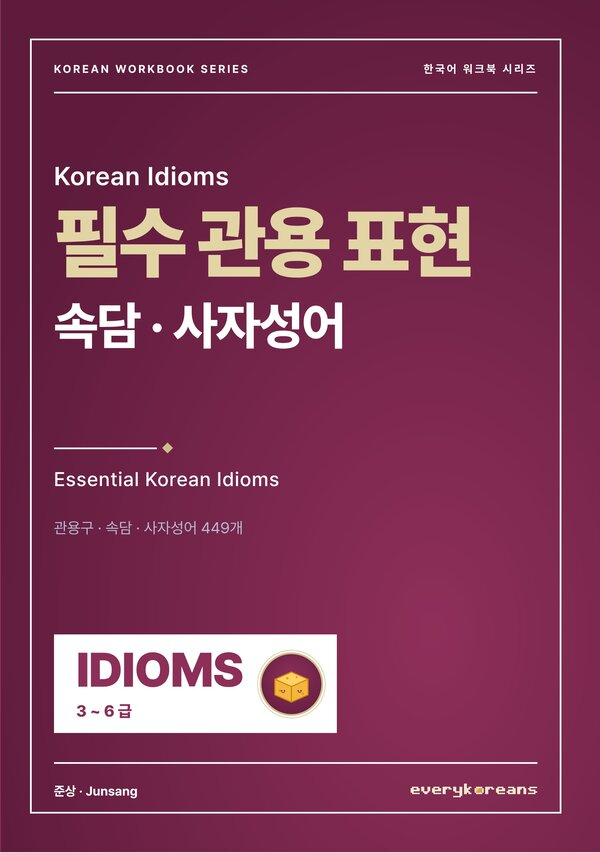
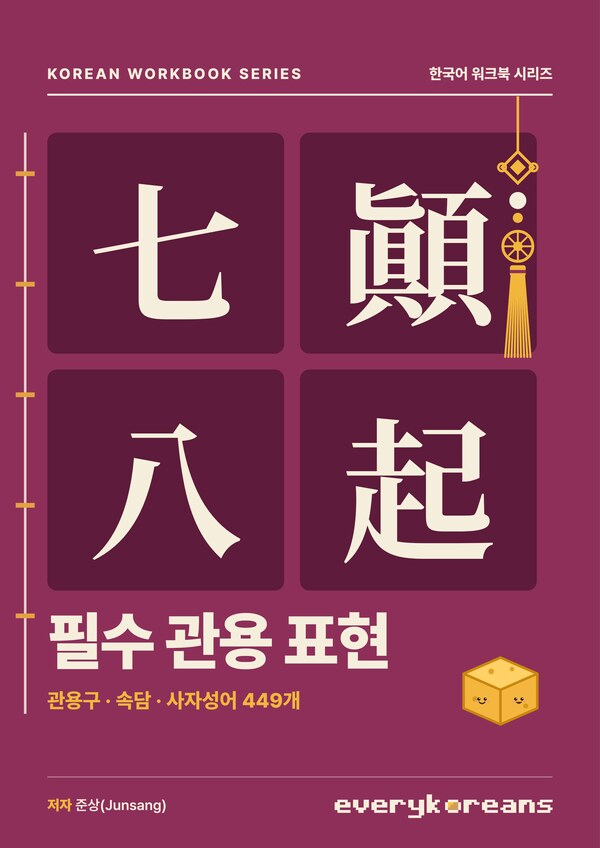
필수 관용 표현 새 표지 반영 (#679)
* 잘자 정리: 쓰레드 8 · 9번 올림 기록

Claude-Session: https://claude.ai/code/session_01ENZGJR1M6rF2jzSASJyHWb

* 소개 쪽: 깔끔한 일곱 칸으로 자세히 다시 쓰기

Claude-Session: https://claude.ai/code/session_01ENZGJR1M6rF2jzSASJyHWb

* 소개 쪽: 큰 편집 레이아웃(숫자 띠 · 책 표지 · 시험장 그림)

Claude-Session: https://claude.ai/code/session_01ENZGJR1M6rF2jzSASJyHWb

* 푸터 언어 안내를 한 줄로 · 시험장 시간 칸이 시험에 맞게 바뀌게

Claude-Session: https://claude.ai/code/session_01ENZGJR1M6rF2jzSASJyHWb

* 모의고사 넘길 때 화면 고정 · 사이드바 시계 아이콘 · 시험장 게시판 홍보 · 관절 있는 사람

Claude-Session: https://claude.ai/code/session_01ENZGJR1M6rF2jzSASJyHWb

* 3D 시험장: 1인칭 내 손(연필로 쓰는 움직임)

Claude-Session: https://claude.ai/code/session_01ENZGJR1M6rF2jzSASJyHWb

* 소개 쪽: 이름이 시작된 곳(햄스터 치즈 · 감자)

Claude-Session: https://claude.ai/code/session_01ENZGJR1M6rF2jzSASJyHWb

* 햄스터 OX 퀴즈 1단계(/ox/) · 치즈 사진 교체 · 게시판 주소 글자 뺌

Claude-Session: https://claude.ai/code/session_01ENZGJR1M6rF2jzSASJyHWb

* OX 퀴즈: 일곱 갈래 626문항(품사 · 문법 · 표현 · 한자 · 숫자 · 높임말)

Claude-Session: https://claude.ai/code/session_01ENZGJR1M6rF2jzSASJyHWb

* 3D 시험장 조이스틱 · OX 퀴즈 함께 하기(같은 시계 · 실시간 접속자)

Claude-Session: https://claude.ai/code/session_01ENZGJR1M6rF2jzSASJyHWb

* 읽기 보충 112문항 검수: 되돌림 · 안티 2차 고치기 지시

Claude-Session: https://claude.ai/code/session_01ENZGJR1M6rF2jzSASJyHWb

* 사이드바에 햄스터 OX 퀴즈 링크

Claude-Session: https://claude.ai/code/session_01ENZGJR1M6rF2jzSASJyHWb

* OX 퀴즈: 조이스틱 · 방향키로 걸어서 O/X 쪽에 서기

Claude-Session: https://claude.ai/code/session_01ENZGJR1M6rF2jzSASJyHWb
[…]

diff --git a/tools/cover-topik/korean-idioms.html b/tools/cover-topik/korean-idioms.html
@@ -1,0 +1,18 @@
+<!doctype html><meta charset=utf-8><link rel=stylesheet href=/vendor/pretendard.css><style>@font-face{font-family:'NotoSerifKRIdioms';src:url(/tools/cover-topik/fonts/NotoSerifKR-Bold-idioms.ttf);font-weight:700}*{box-sizing:border-box;margin:0}body{padding:24px;background:#ddd}.cv{width:380px;height:537px;position:relative;overflow:hidden}</style><body><div class="cv" style="background:#8E2F5A"><svg width="380" height="537" style="position:absolute;left:0;top:0"><text x="30" y="50" font-size="9.5" font-weight="800" fill="#F6EEDC" font-family="Pretendard Variable, Noto Sans CJK KR, sans-serif" letter-spacing="1.4">KOREAN WORKBOOK SERIES</text><text x="350" y="50" font-size="9.5" font-weight="800" fill="#F6EEDC" font-family="Pretendard Variable, Noto Sans CJK KR, sans-serif" text-anchor="end">한국어 워크북 시리즈</text><path d="M30 60H350" stroke="#F6EEDC" stroke-width="1.2"/>
+<g transform="translate(30 84)"><rect width="150" height="140" rx="6" fill="#5E1B3B"/><text x="75" y="114" font-size="98" font-weight="700" fill="#F6EEDC" font-family="NotoSerifKRIdioms" text-anchor="middle">七</text></g><g transform="translate(190 84)"><rect width="150" height="140" rx="6" fill="#5E1B3B"/><text x="75" y="114" font-size="98" font-weight="700" fill="#F6EEDC" font-family="NotoSerifKRIdioms" text-anchor="middle">顚</text></g><g transform="translate(30 234)"><rect width="150" height="140" rx="6" fill="#5E1B3B"/><text x="75" y="114" font-size="98" font-weight="700" fill="#F6EEDC" font-family="NotoSerifKRIdioms" text-anchor="middle">八</text></g><g transform="translate(190 234)"><rect width="150" height="140" rx="6" fill="#5E1B3B"/><text x="75" y="114" font-size="98" font-weight="700" fill="#F6EEDC" font-family="NotoSerifKRIdioms" text-anchor="middle">起</text></g>
+<g>
+<path d="M328 61V96" stroke="#F2B63D" stroke-width="1.6"/>
+<g transform="translate(328 106)"><path d="M0 -10L10 0L0 10L-10 0z" fill="none" stroke="#F2B63D" stroke-width="1.8"/><path d="M0 -5L5 0L0 5L-5 0z" fill="#F2B63D"/><circle cx="-10" cy="0" r="2.4" fill="none" stroke="#F2B63D" stroke-width="1.5"/><circle cx="10" cy="0" r="2.4" fill="none" stroke="#F2B63D" stroke-width="1.5"/></g>
+<circle cx="328" cy="127" r="5.4" fill="#F6EEDC"/>
+<circle cx="328" cy="138" r="3.2" fill="#F2B63D"/>
+<g transform="translate(328 156)"><circle r="9.5" fill="none" stroke="#F2B63D" stroke-width="1.8"/><path d="M-6 -6L6 6M6 -6L-6 6M0 -9V9M-9 0H9" stroke="#F2B63D" stroke-width="1.2"/><circle r="3" fill="#F2B63D"/></g>
+<rect x="323" y="168" width="10" height="7" rx="1.5" fill="#F2B63D"/><rect x="323" y="171" width="10" height="2" fill="#8E2F5A"/>
+<g stroke="#F2B63D" stroke-width="1.3" stroke-linecap="round"><path d="M324.0 175L320.0 226"/><path d="M325.0 175L322.0 226"/><path d="M326.0 175L324.0 226"/><path d="M327.0 175L326.0 226"/><path d="M328.0 175L328.0 226"/><path d="M329.0 175L330.0 226"/><path d="M330.0 175L332.0 226"/><path d="M331.0 175L334.0 226"/><path d="M332.0 175L336.0 226"/></g>
+</g>
+<text x="30" y="420" font-size="40" font-weight="900" fill="#F6EEDC" font-family="Pretendard Variable, Noto Sans CJK KR, sans-serif" letter-spacing="-1">필수 관용 표현</text><text x="30" y="448" font-size="13" font-weight="800" fill="#F2B63D" font-family="Pretendard Variable, Noto Sans CJK KR, sans-serif" >관용구 · 속담 · 사자성어 449개</text><g transform="translate(282 396)"><svg width="70" height="70"  viewBox="0 0 96 96" aria-hidden="true"><path d="M16 42l32-14 32 14v30l-32 14-32-14z" fill="#F4B63F" stroke="#C9870E" stroke-width="2.2" stroke-linejoin="round"/><path d="M16 42l32 14 32-14-32-14z" fill="#FFD166" stroke="#C9870E" stroke-width="2.2" stroke-linejoin="round"/><path d="M48 56v30" stroke="#C9870E" stroke-width="2.2"/><circle cx="40" cy="40" r="2.5" fill="#E3A12A"/><circle cx="58" cy="38" r="2" fill="#E3A12A"/><circle cx="26" cy="64" r="2.4" fill="#D99A1C"/><circle cx="70" cy="70" r="2.2" fill="#D99A1C"/><circle cx="29.240000000000002" cy="64" r="1.38" fill="#2A1A12"/><circle cx="34.76" cy="64" r="1.38" fill="#2A1A12"/>
+    <circle cx="29.720000000000002" cy="63.52" r="0.48" fill="#fff"/><circle cx="35.239999999999995" cy="63.52" r="0.48" fill="#fff"/>
+    <ellipse cx="27.200000000000003" cy="66.16" rx="1.56" ry="0.96" fill="#F39A7E" opacity=".75"/>
+    <ellipse cx="36.8" cy="66.16" rx="1.56" ry="0.96" fill="#F39A7E" opacity=".75"/><path d="M29.6 66.7q2.4 2.4 4.8 0" fill="none" stroke="#3A2418" stroke-width="1.08" stroke-linecap="round"/><circle cx="61.24" cy="64" r="1.38" fill="#2A1A12"/><circle cx="66.76" cy="64" r="1.38" fill="#2A1A12"/>
+    <circle cx="61.72" cy="63.52" r="0.48" fill="#fff"/><circle cx="67.24000000000001" cy="63.52" r="0.48" fill="#fff"/>
+    <ellipse cx="59.2" cy="66.16" rx="1.56" ry="0.96" fill="#F39A7E" opacity=".75"/>
+    <ellipse cx="68.80000000000001" cy="66.16" rx="1.56" ry="0.96" fill="#F39A7E" opacity=".75"/><path d="M61 66.4q3 3.5999999999999996 6 0" fill="#5A2E1C"/></svg></g><path d="M30 492H350" stroke="#F6EEDC" stroke-width=".6" opacity=".45"/><text x="30" y="513" font-size="9" font-weight="600" fill="#F6EEDC" font-family="Pretendard Variable, Noto Sans CJK KR, sans-serif" ><tspan font-weight="900" fill="#F2B63D">저자</tspan> 준상(Junsang)</text><g stroke="#F6EEDC" stroke-width="1.6" opacity=".85"><path d="M16 84V452"/><path d="M10 110h12" stroke-width="3" stroke="#F2B63D"/><path d="M10 180h12" stroke-width="3" stroke="#F2B63D"/><path d="M10 250h12" stroke-width="3" stroke="#F2B63D"/><path d="M10 320h12" stroke-width="3" stroke="#F2B63D"/><path d="M10 390h12" stroke-width="3" stroke="#F2B63D"/></g></svg><div style="position:absolute;right:30px;bottom:19px"><svg style="height:15px;width:auto;display:block" xmlns="http://www.w3.org/2000/svg" viewBox="0 0 83 9" height="11px" shape-rendering="crispEdges" role="img" aria-label="every koreans"><path d="M35 0h2v1h-2zM35 1h2v1h-2zM1 2h4v1h-4zM7 2h2v1h-2zM11 2h2v1h-2zM15 2h4v1h-4zM21 2h5v1h-5zM28 2h2v1h-2zM32 2h2v1h-2zM35 2h2v1h-2zM38 2h2v1h-2zM49 2h5v1h-5zM57 2h4v1h-4zM64 2h4v1h-4zM70 2h5v1h-5zM78 2h5v1h-5zM0 3h2v1h-2zM4 3h2v1h-2zM7 3h2v1h-2zM11 3h2v1h-2zM14 3h2v1h-2zM18 3h2v1h-2zM21 3h3v1h-3zM25 3h2v1h-2zM28 3h2v1h-2zM32 3h2v1h-2zM35 3h4v1h-4zM49 3h3v1h-3zM53 3h2v1h-2zM56 3h2v1h-2zM60 3h2v1h-2zM67 3h2v1h-2zM70 3h3v1h-3zM74 3h2v1h-2zM77 3h2v1h-2zM0 4h6v1h-6zM7 4h2v1h-2zM11 4h2v1h-2zM14 4h6v1h-6zM21 4h2v1h-2zM28 4h2v1h-2zM32 4h2v1h-2zM35 4h3v1h-3zM49 4h2v1h-2zM56 4h6v1h-6zM64 4h5v1h-5zM70 4h2v1h-2zM74 4h2v1h-2zM78 4h4v1h-4zM0 5h2v1h-2zM8 5h4v1h-4zM14 5h2v1h-2zM21 5h2v1h-2zM29 5h5v1h-5zM35 5h4v1h-4zM49 5h2v1h-2zM56 5h2v1h-2zM63 5h2v1h-2zM67 5h2v1h-2zM70 5h2v1h-2zM74 5h2v1h-2zM81 5h2v1h-2zM1 6h5v1h-5zM9 6h2v1h-2zM15 6h5v1h-5zM21 6h2v1h-2zM32 6h2v1h-2zM35 6h2v1h-2zM38 6h2v1h-2zM49 6h2v1h-2zM57 6h5v1h-5zM64 6h5v1h-5zM70 6h2v1h-2zM74 6h2v1h-2zM77 6h5v1h-5zM32 7h2v1h-2zM28 8h5v1h-5z" fill="#F6EEDC"/><path d="M43 2h4v1h-4zM42 3h1v1h-1zM47 3h1v1h-1zM42 4h1v1h-1zM47 4h1v1h-1zM42 5h1v1h-1zM47 5h1v1h-1zM43 6h4v1h-4z" fill="#F6EEDC"/><path d="M43 3h2v1h-2zM43 4h1v1h-1z" fill="#F6C443"/><path d="M45 3h2v1h-2zM44 4h3v1h-3zM43 5h4v1h-4z" fill="#D49B5A"/></svg></div></div></body>

diff --git a/docs/todo.md b/docs/todo.md
@@ -32,7 +32,8 @@
 - ✅ **예스24 책 올림**(2026-11-02, 운영자 「책 다 올라갔어」): 목록에 6권(단어장 4 · 쓰기 2) 판매 중. 아직 안 올린 4권(운영자 확인): 첫걸음 01 · 조사 02 · 읽기 모의고사 07 · 관용 표현 10 — 복사판 「예스24 도서등록」 탭에 이 4권만 남겨 둠. 판권쪽 AI 표시는 새로 만드는 책부터, 이미 올린 PDF 교체 여부는 운영자 결정.
 - 📗 **읽기 실전 10회 새 표지 반영(2026-11-11 최종)** — Polar 상품 그림 · 상점 · 첫 화면 바꿈. 운영자: 예스24 에 올릴 때 새 표지(`yes24-reading-mock.jpg`, 1600px)로 · ISBN 표지 정정도 이 표지로.
 - 📕 **읽기 영역 4권 새 표지 최종(2026-11-11)** — 앞표지 PNG 4장은 드라이브에 저장, 인쇄용 전체 표지는 `build-book` 으로 만듦. 아직 상점에 없음(올릴지는 운영자). 주의: 문제 은행이 늘어(384→400 · 381→415 · 455→496 · 379→400) 책 틀을 새로 만들면 표지 숫자도 고쳐야 한다. 지금 표지 · 책 틀은 옛 숫자로 서로 맞음.
-- 📘 **조사 워크북 새 표지 최종(2026-11-11)** — Polar · 상점 · 첫 화면 바꿈, 드라이브에 앞표지 · 예스24용 JPEG 저장. 운영자: 예스24 · ISBN 표지 정정에 새 표지(`…조사워크북_예스24용_최종_v1.0…jpg`)로. 첫걸음 워크북 표지도 2026-11-11 최종(말풍선 안) — Polar · 상점 · 첫 화면 바꿈, 드라이브에 앞표지 · 예스24용 JPEG 저장. 운영자: 예스24 · ISBN 표지 정정에 새 표지(`…첫걸음워크북_예스24용_최종_v1.0…jpg`)로, 대량등록 엑셀의 첫걸음 표지도 이 파일로.
+- 📘 **조사 워크북 새 표지 최종(2026-11-11)** — Polar · 상점 · 첫 화면 바꿈, 드라이브에 앞표지 · 예스24용 JPEG 저장. 운영자: 예스24 · ISBN 표지 정정에 새 표지(`…조사워크북_예스24용_최종_v1.0…jpg`)로. 📙 **관용 표현(필수 관용 표현) 새 표지 최종(2026-11-11)** — 七顚八起 + 노리개 + 실 꿰맴. Polar · 상점 · 첫 화면 바꿈, 드라이브에 앞표지 · 예스24용 JPEG 저장. 운영자: 예스24 · ISBN 표지는 `…필수관용표현_예스24용_최종_v1.0…jpg` 로. 인쇄 시안이 나오면 왼쪽 실 꿰맴 선이 제본에 잘리지 않는지 한 번 확인.
+- 첫걸음 워크북 표지도 2026-11-11 최종(말풍선 안) — Polar · 상점 · 첫 화면 바꿈, 드라이브에 앞표지 · 예스24용 JPEG 저장. 운영자: 예스24 · ISBN 표지 정정에 새 표지(`…첫걸음워크북_예스24용_최종_v1.0…jpg`)로, 대량등록 엑셀의 첫걸음 표지도 이 파일로.
 - 📗 **예스24 대량등록 엑셀 첫 판(2026-11-11)** — 미등록 4권(첫걸음 · 조사 · 읽기 실전 10회 · 관용 표현) 채움(드라이브 `…예스24대량등록_01_미등록4권_v0.1…xlsx`). 운영자: ① SCM 카테고리 창에서 **카테고리 코드** 확인(E열 필수, 4권 같은 코드면 한 번) ② 상품태그 코드(선택) ③ 파일 이름 규칙(zip 묶음?) 확인 ④ 첫걸음 표지는 아직 새 표지 전이니 표지만 나중에 교체. 정하면 `--cat 코드` 로 다시 만든다.
 - ✅ ISBN 정정신청(제목 · 표지) 11권 — 2026-11-06 운영자가 모두 올림. 승인 결과 확인 · 판매처(예스24 · KDP · 쿠팡 · Polar)에 올린 제목 · 파일 바꾸기는 남음.
 - ✅ 쓰기 53~54 책 틀 고침(2026-11-08) — 원인: 쓰기 줄 묶음 클래스 이름이 `wkg` 로 바뀐 뒤 줄 높이를 줄이는 `wg2` 가 안 붙어(replace 가 `wg` 를 찾음) 줄이 8mm 로 나와 점검 상자가 다음 쪽으로 넘어감. 지금 234쪽 · 기계 검사 FAIL 0 · 주의 0, Polar 파일 교체함. 예스24는 판매본이 220쪽(v1.18)이라 파일 교체가 안 되고 **개정판 등록**이 필요(zip 보냄).

diff --git a/docs/decisions.md b/docs/decisions.md
@@ -424,3 +424,4 @@
 - 2026-11-11 · 앱 안의 여행 한국어(`#learn/travel`)도 같은 약속으로 다시 짬(운영자 「여기는 아직도 그대로」): 이모지 아이콘 카드 · 그림자 · 알약 배지 → 번호 차례 표(상황 목록 · 구문 줄 · 낱말 줄글). 난이도 선택은 칸 붙은 네모 단추(폰은 2×2). 「3단계 전체」의 듣기 단추가 글자 없이 비어 있던 것도 고침. 원본 `app.module.js`(drawTravel) · `app-views.css`(.tv-*). 포켓 가이드는 브라우저가 용지를 Letter 로 잡는 곳이 있어(운영자 「A4가 아닌데」) 완성된 A4 PDF 네 가지를 `assets/travel/` 에 두고 쪽에서 바로 받게 함(`node tools/build-travel-pdf.mjs`, travel-data.js 를 고치면 다시 돌린다).
 - 2026-11-11 · 여행 포켓 가이드를 상황별로 나눔(운영자 「이렇게 말고 나눠주라고 각각 · 그리고 전체 하나로도」): 7개 상황(공항 · 교통 · 숙소 · 식당 · 쇼핑 · 관광 · 약국) 각각 A4 한 장 PDF 두 가지(보통 · 3단계 비교) + 전체 한 번에 PDF 두 가지(보통 2쪽 · 3단계 4쪽). 쪽 `/travel-guide.html` 은 상황 목차(번호 · 이름 · 「이 상황만 보기」 · PDF 받기)로, `?cat=air` 처럼 한 상황만 열고 `?cat=all` 은 전체. 묶음 PDF 네 가지(쉬움 · 보통 · 정확 · 3단계) 와 큰 「A4 PDF 받기」 단추는 없앰. 도구 `node tools/build-travel-pdf.mjs`(PDF 16개, 약 5MB). 블로그 소개 문구(2쪽짜리 → 상황마다 A4 한 장)도 고침.
 - 2026-11-11 · 표지 최종(첫걸음 워크북, 운영자 「좋아 최종」): 말풍선 표지 — 세이지 `#DCE5D8` 바탕 · 진초록 `#1D5C45` 말풍선 안에 「한국어 워크북」(겨자) · 「첫걸음」(크림 큰 글씨) · 「한글 · 인사 · 생활 낱말」 · 감자 + 치즈 한 쌍 · 「A1 입문 / QR 무료 연습」 · 우리 사이트 QR(바탕 위에 바로, 앞표지에 둠 · 주소 `everykoreans.com/?utm_source=book&utm_medium=cover&utm_campaign=first-steps-workbook`) · 위 시리즈 줄 · 아래 얇은 구분선 + 「저자 준상(Junsang)」 · 로고. 계단 블록 · 번짐 바탕 · 흰 바탕 안은 쓰지 않음. 원본 `tools/cover-topik/first-steps-workbook.html`(손으로 만든 표지라 `build.mjs` 가 덮어쓰지 않음). `coverLevel.bg` 는 책 틀 그대로 진초록(겹침 검사 통과). 상점 · 첫 화면 이미지 · Polar 상품 그림 · 인쇄 전체 표지 반영, 앞표지 PNG · 예스24용 JPEG 는 드라이브에 저장.
+- 2026-11-11 · 표지 최종(필수 관용 표현, 운영자 「최종」): 자주 `#8E2F5A`(책 틀 그대로) 바탕 · 「七顚八起」 한자 네 칸(큰 명조) · 한국 노리개(매듭 · 구슬 · 술)를 노란 책갈피처럼 오른쪽 위에 늘어뜨림 · 왼쪽에 옛 책 실 꿰맴(오침안정) 선 · 제목 「필수 관용 표현」 + 「관용구 · 속담 · 사자성어 449개」 · 치즈 · 위 시리즈 줄 · 아래 얇은 구분선 + 저자 · 로고. 한자 칸의 글자는 시스템 글꼴에서 「顚」이 뭉개져 Noto Serif KR 700(OFL) 4글자 부분 글꼴을 `tools/cover-topik/fonts/` 에 넣고 씀. 원본 `tools/cover-topik/korean-idioms.html`. 상점 · 첫 화면 이미지 · Polar 상품 그림 · 인쇄 전체 표지 반영, 앞표지 PNG · 예스24용 JPEG 는 드라이브에 저장. 한자 · 속담 말고 다른 사자성어로 바꾸려면 HTML 의 네 글자와 부분 글꼴 글자를 같이 바꾼다.
